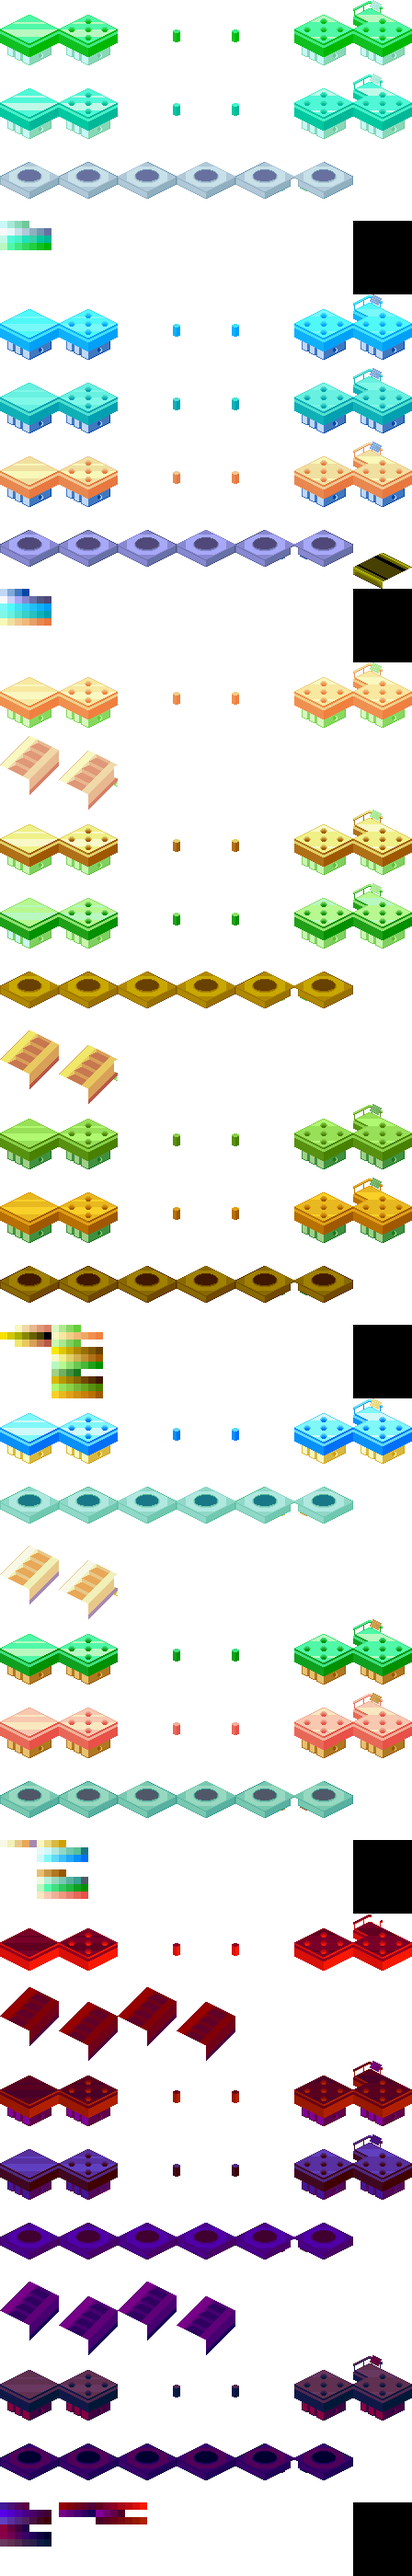
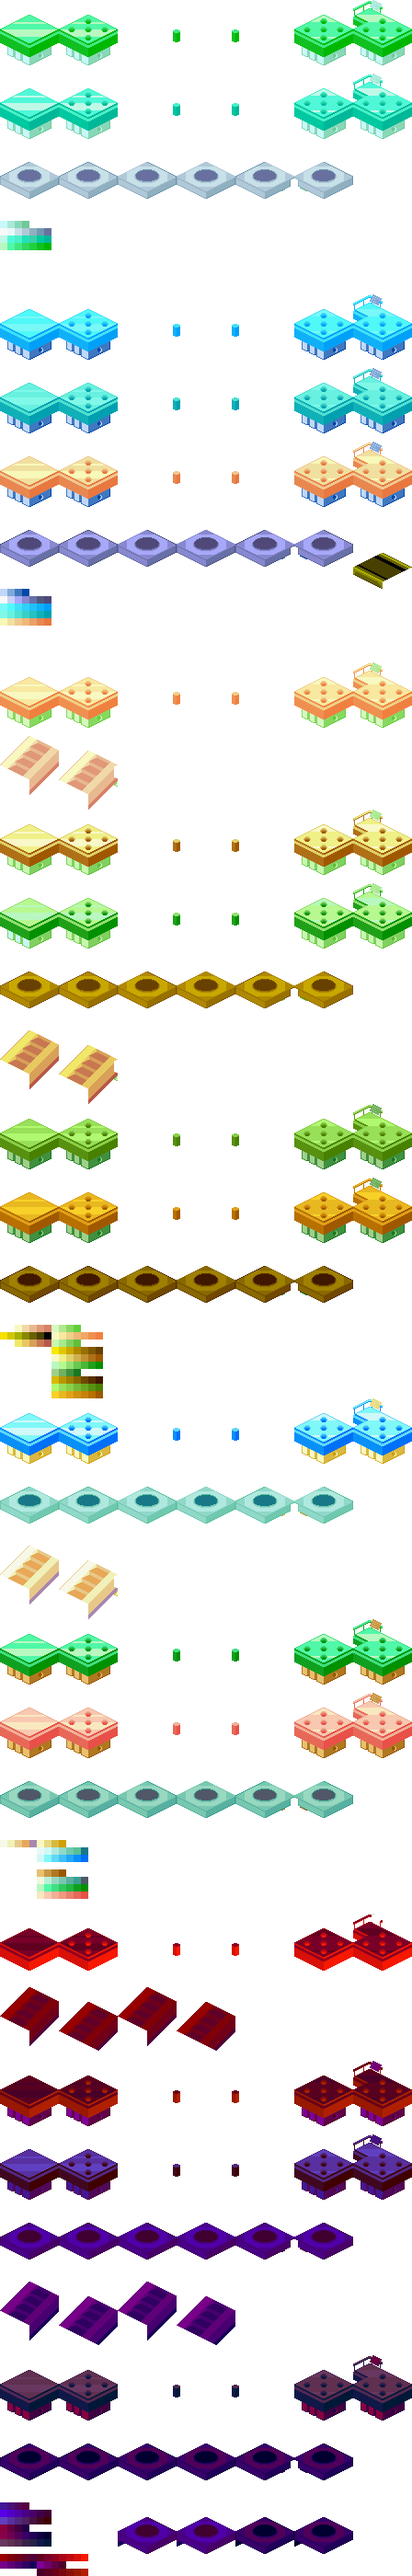
added some warps, updated some areas and linked up undernet sqr to undernet 3, Added undernet statue asset with modifications to help it appear better visually. Added Undernet-bbs and removed unneeded pdn file.

diff --git a/assets/tiles/BN3UndernetWarpVariant2.tsx b/assets/tiles/BN3UndernetWarpVariant2.tsx
@@ -1,0 +1,22 @@
+<?xml version="1.0" encoding="UTF-8"?>
+<tileset version="1.10" tiledversion="1.11.2" name="BN3UndernetWarpVariant2" tilewidth="64" tileheight="40" tilecount="9" columns="1" objectalignment="top">
+ <tileoffset x="0" y="-6"/>
+ <image source="BN3UndernetWarpVariant2.png" trans="000000" width="64" height="360"/>
+ <tile id="1">
+  <objectgroup draworder="index" id="2">
+   <object id="1" x="11" y="14" width="42" height="21">
+    <ellipse/>
+   </object>
+  </objectgroup>
+  <animation>
+   <frame tileid="1" duration="166"/>
+   <frame tileid="2" duration="166"/>
+   <frame tileid="3" duration="166"/>
+   <frame tileid="4" duration="166"/>
+   <frame tileid="5" duration="166"/>
+   <frame tileid="6" duration="166"/>
+   <frame tileid="7" duration="166"/>
+   <frame tileid="8" duration="166"/>
+  </animation>
+ </tile>
+</tileset>

diff --git a/assets/tiles/BN3UndernetWarpVariant1.tsx b/assets/tiles/BN3UndernetWarpVariant1.tsx
@@ -1,0 +1,22 @@
+<?xml version="1.0" encoding="UTF-8"?>
+<tileset version="1.8" tiledversion="1.8.1" name="BN3UndernetWarpVariant1" tilewidth="64" tileheight="40" tilecount="9" columns="1" objectalignment="top">
+ <tileoffset x="0" y="-8"/>
+ <image source="BN3UndernetWarpVariant1.png" trans="000000" width="64" height="360"/>
+ <tile id="1">
+  <objectgroup draworder="index" id="2">
+   <object id="1" x="11" y="14" width="42" height="21">
+    <ellipse/>
+   </object>
+  </objectgroup>
+  <animation>
+   <frame tileid="1" duration="166"/>
+   <frame tileid="2" duration="166"/>
+   <frame tileid="3" duration="166"/>
+   <frame tileid="4" duration="166"/>
+   <frame tileid="5" duration="166"/>
+   <frame tileid="6" duration="166"/>
+   <frame tileid="7" duration="166"/>
+   <frame tileid="8" duration="166"/>
+  </animation>
+ </tile>
+</tileset>

diff --git a/assets/tiles/undernet-bbs.tsx b/assets/tiles/undernet-bbs.tsx
@@ -1,0 +1,15 @@
+<?xml version="1.0" encoding="UTF-8"?>
+<tileset version="1.8" tiledversion="1.11.2" name="undernet-bbs" tilewidth="48" tileheight="69" tilecount="3" columns="3" objectalignment="top">
+ <image source="undernet-bbs.png" width="144" height="69"/>
+ <tile id="1">
+  <objectgroup draworder="index" id="2">
+   <object id="1" x="8" y="70">
+    <polygon points="0,0 38,-19 28,-24 -10,-5"/>
+   </object>
+  </objectgroup>
+  <animation>
+   <frame tileid="2" duration="330"/>
+   <frame tileid="1" duration="330"/>
+  </animation>
+ </tile>
+</tileset>

diff --git a/assets/tiles/UndernetStatue.tsx b/assets/tiles/UndernetStatue.tsx
@@ -1,0 +1,12 @@
+<?xml version="1.0" encoding="UTF-8"?>
+<tileset version="1.8" tiledversion="1.11.2" name="UndernetStatue" tilewidth="90" tileheight="108" tilecount="1" columns="1" objectalignment="bottomright">
+ <tileoffset x="0" y="32"/>
+ <image source="UndernetStatue.png" width="90" height="108"/>
+ <tile id="0">
+  <objectgroup draworder="index" id="2">
+   <object id="1" x="97" y="71">
+    <polygon points="3,1 -45,-22 -89,0 -43,24"/>
+   </object>
+  </objectgroup>
+ </tile>
+</tileset>
